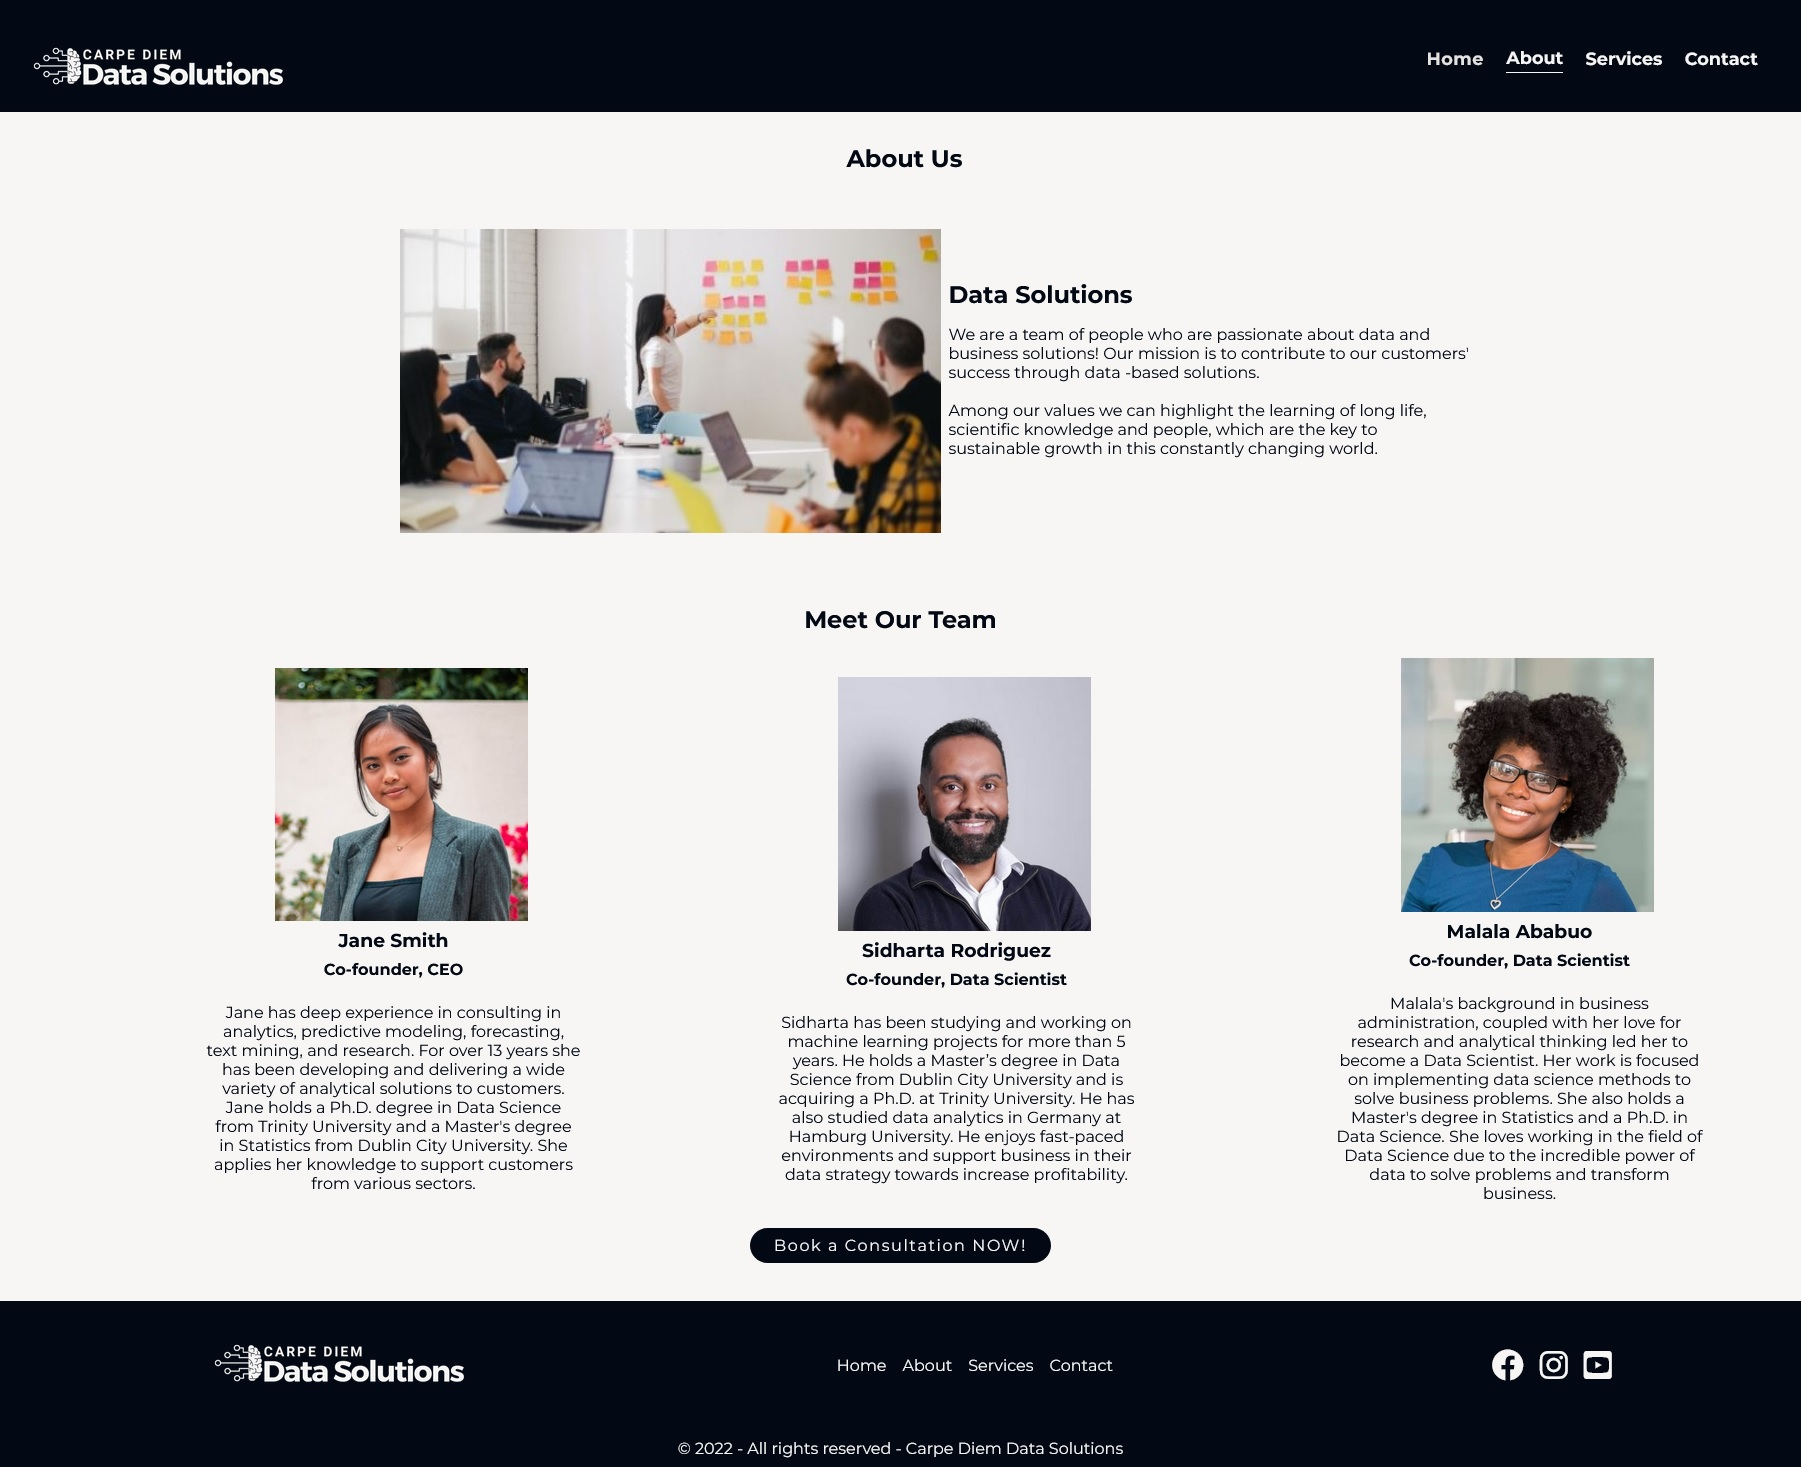
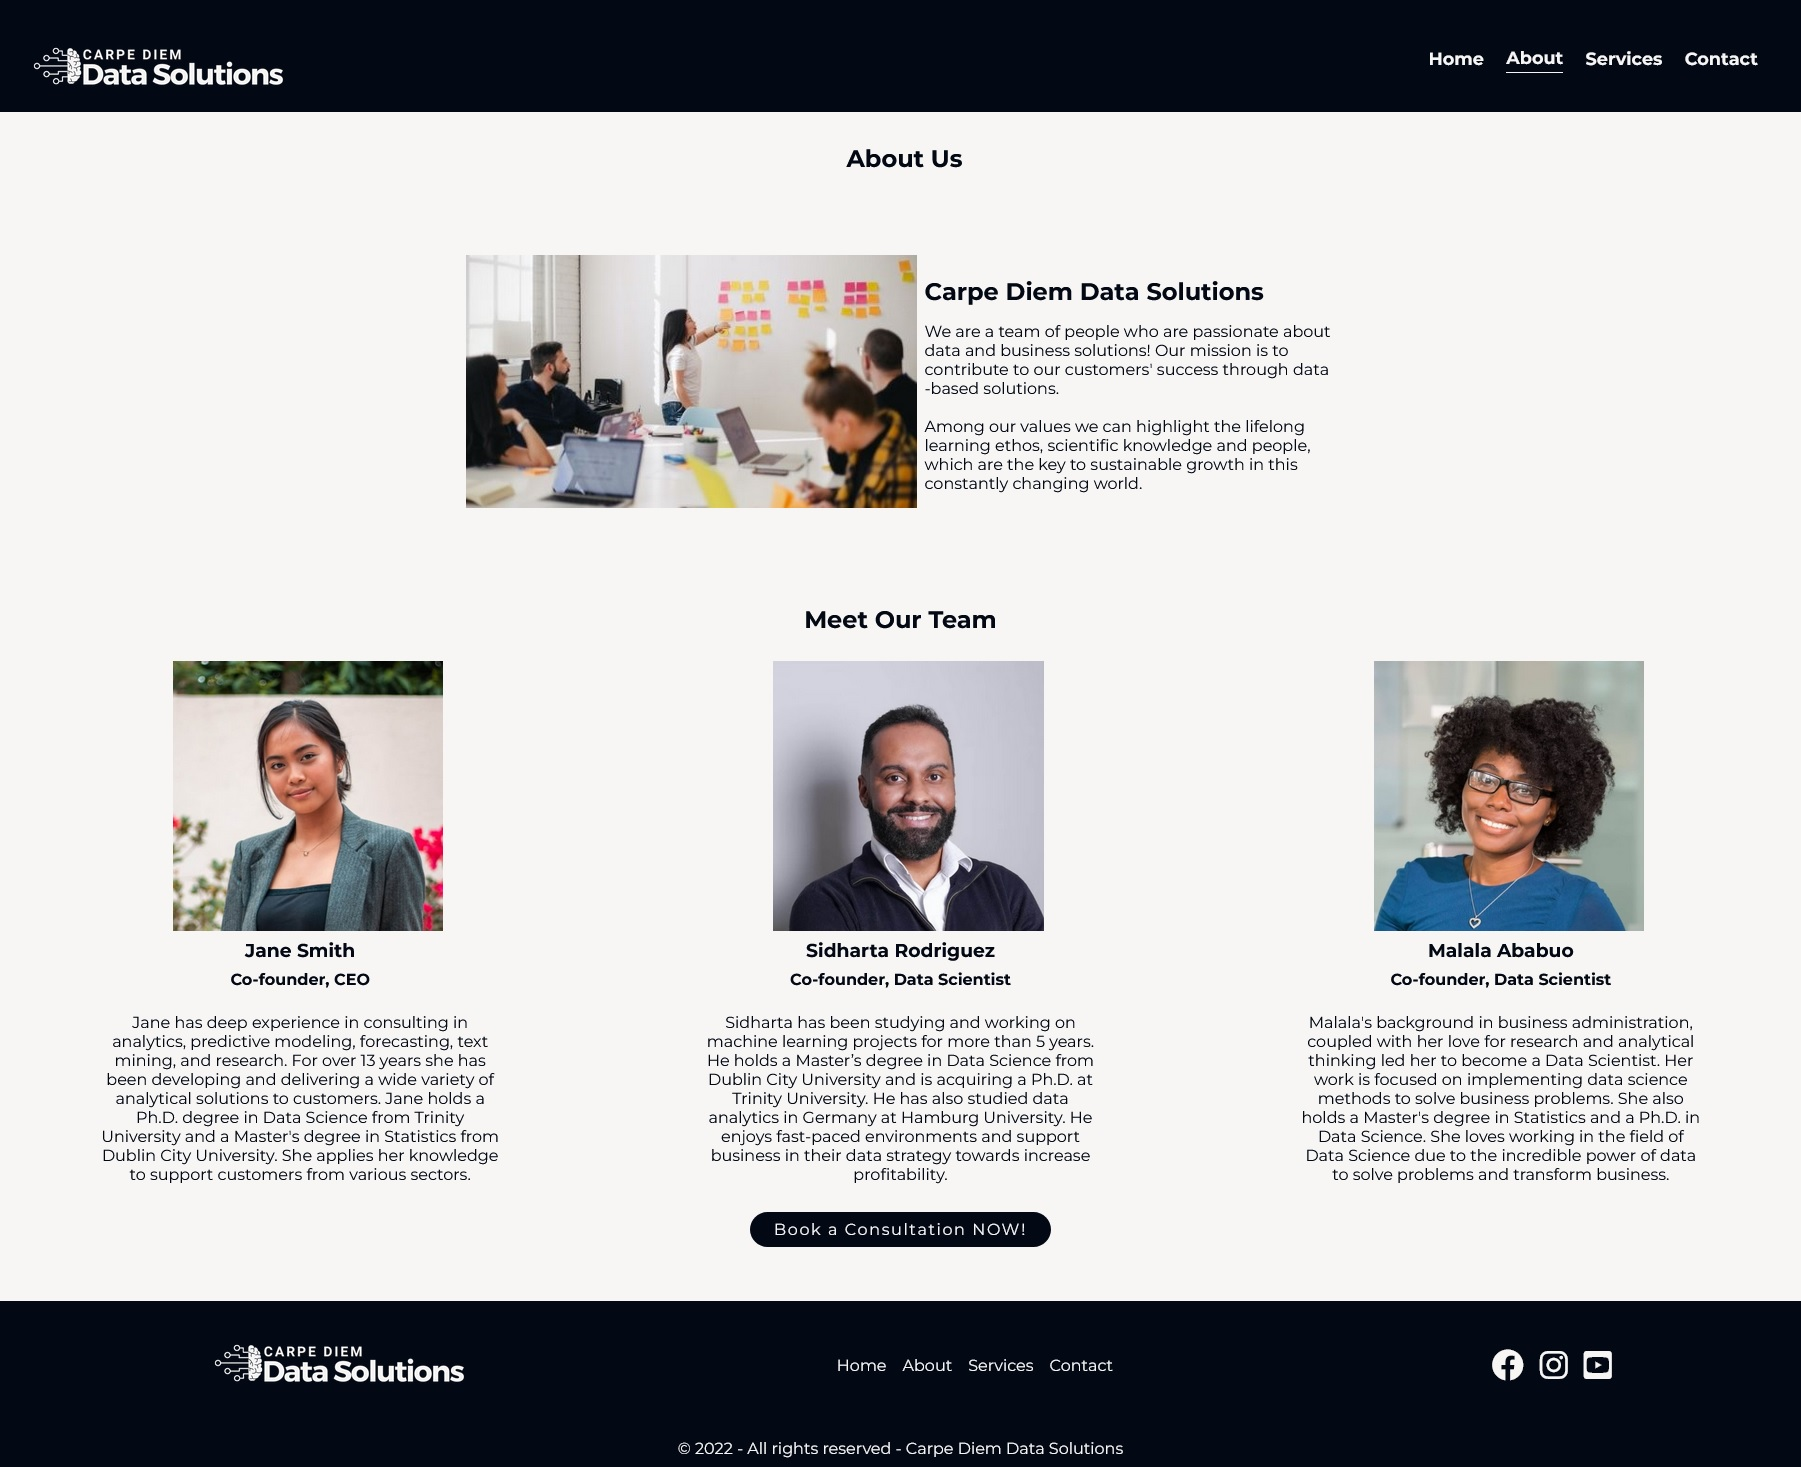
Change the about page

diff --git a/index.html b/index.html
@@ -96,11 +96,11 @@
         <div class="about-container">
           <div class="about-text">
             <h2 class="about-headline">About Us</h2>
-            <h3 class="about-headline-2">Data Solutions</h3>
+            <h3 class="about-headline-2">Carpe Diem Data Solutions</h3>
             <p class="about-text">
               We are a team of people who are passionate about data and business solutions! Our mission is to contribute to our customers' success through data -based solutions. <br />
               <br />
-              Among our values we can highlight the learning of long life, scientific knowledge and people, which are the key to sustainable growth in this constantly changing world.
+              Among our values we can highlight the lifelong learning ethos, scientific knowledge and people, which are the key to sustainable growth in this constantly changing world.
             </p>
           </div>
 
